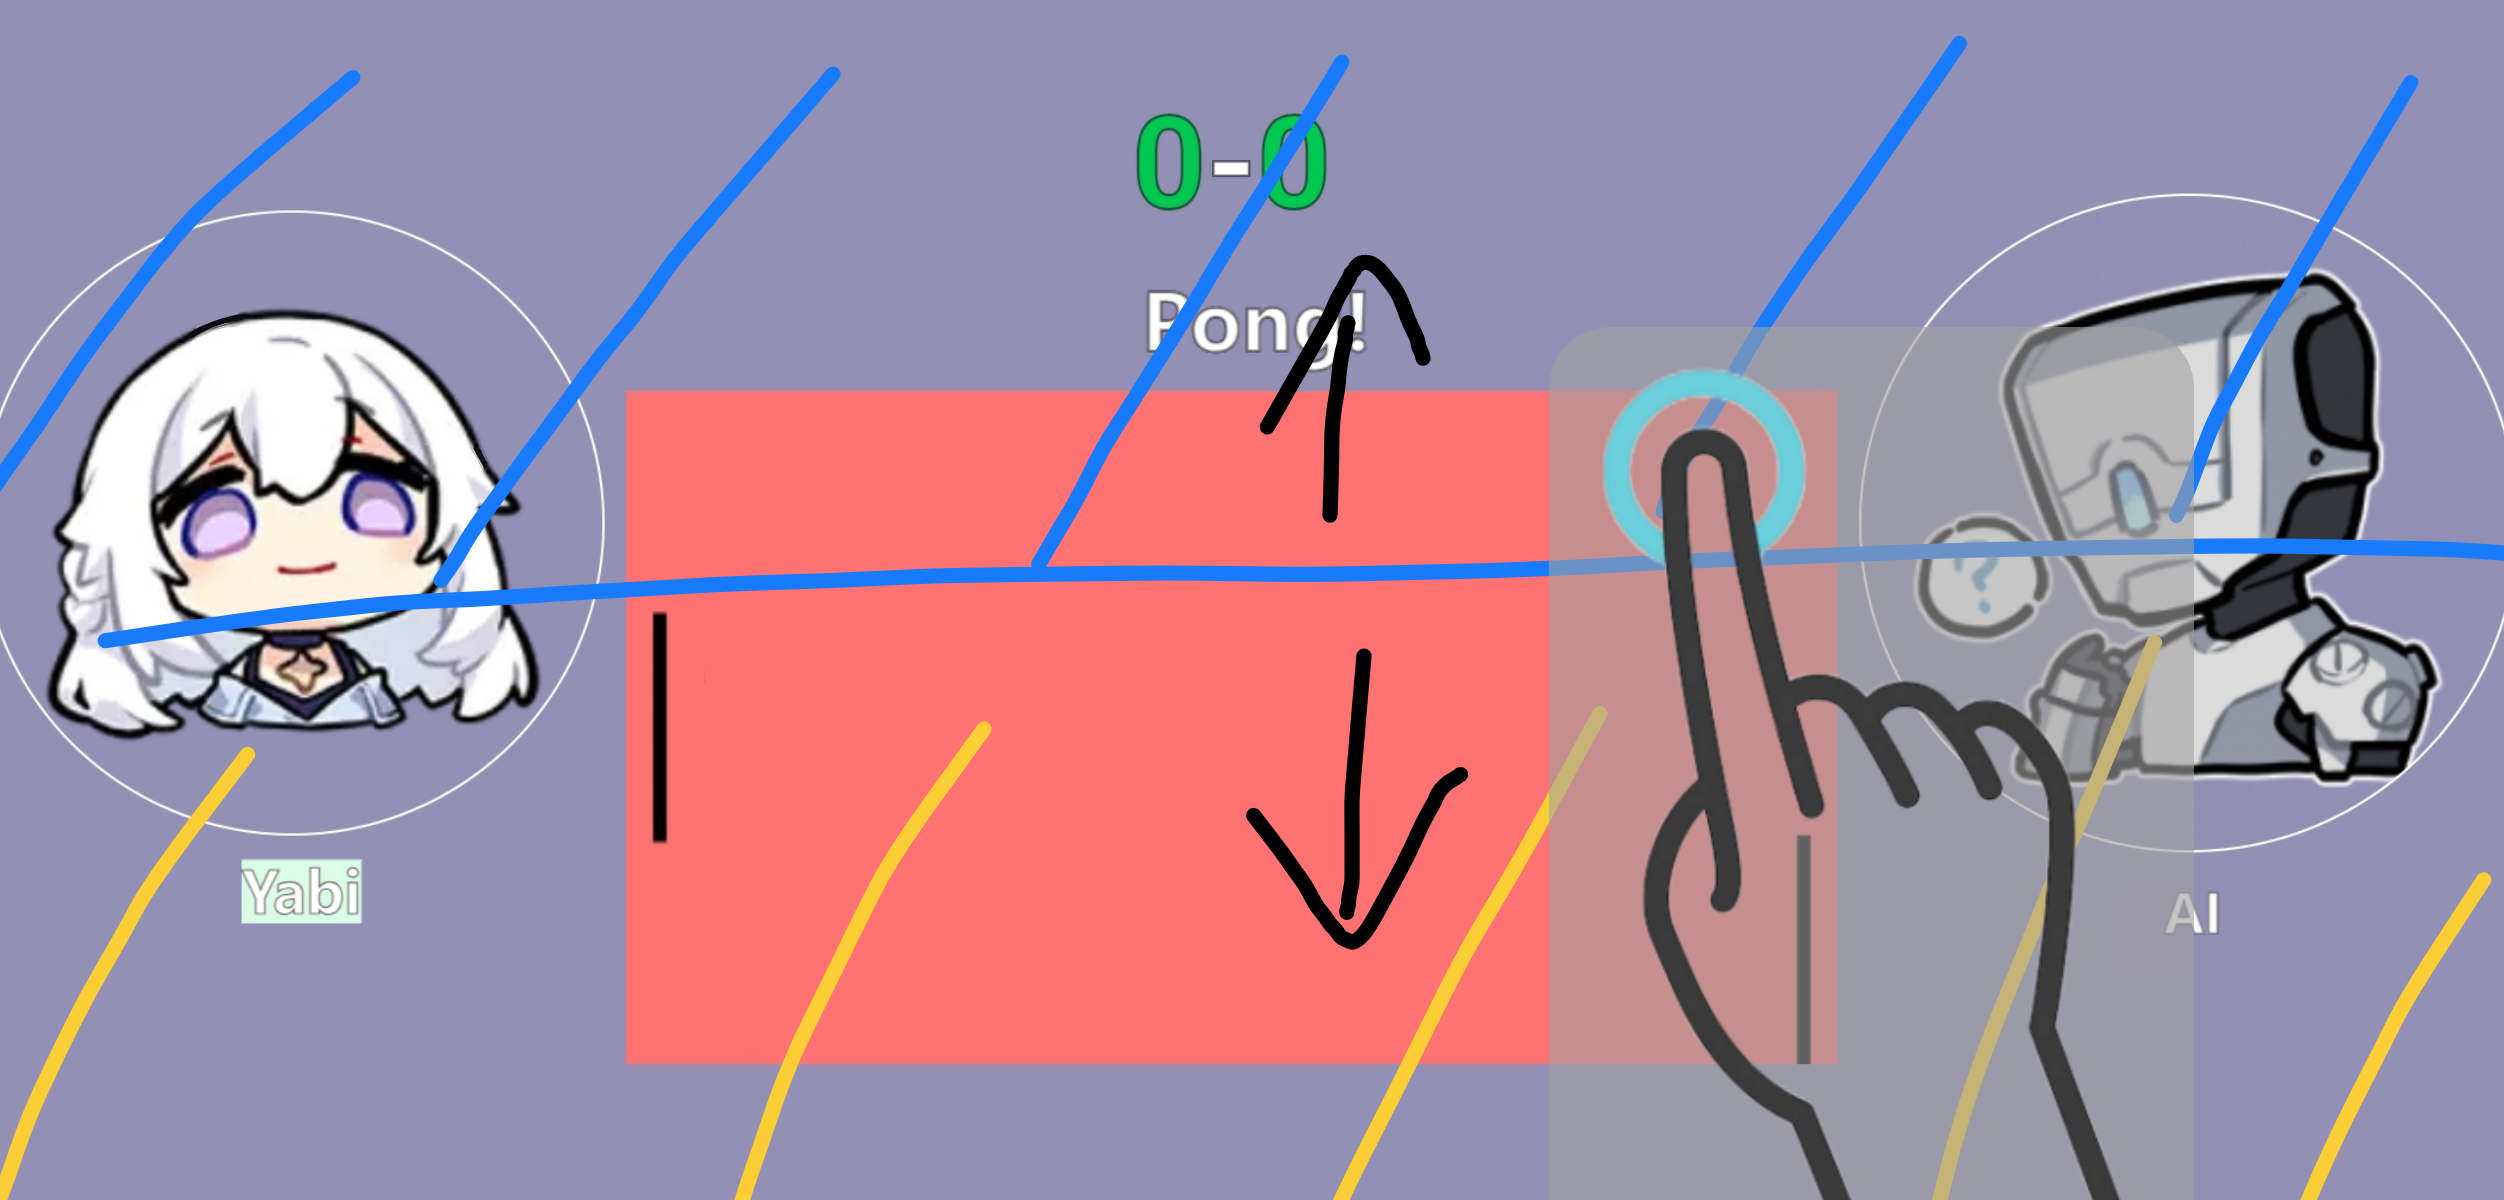
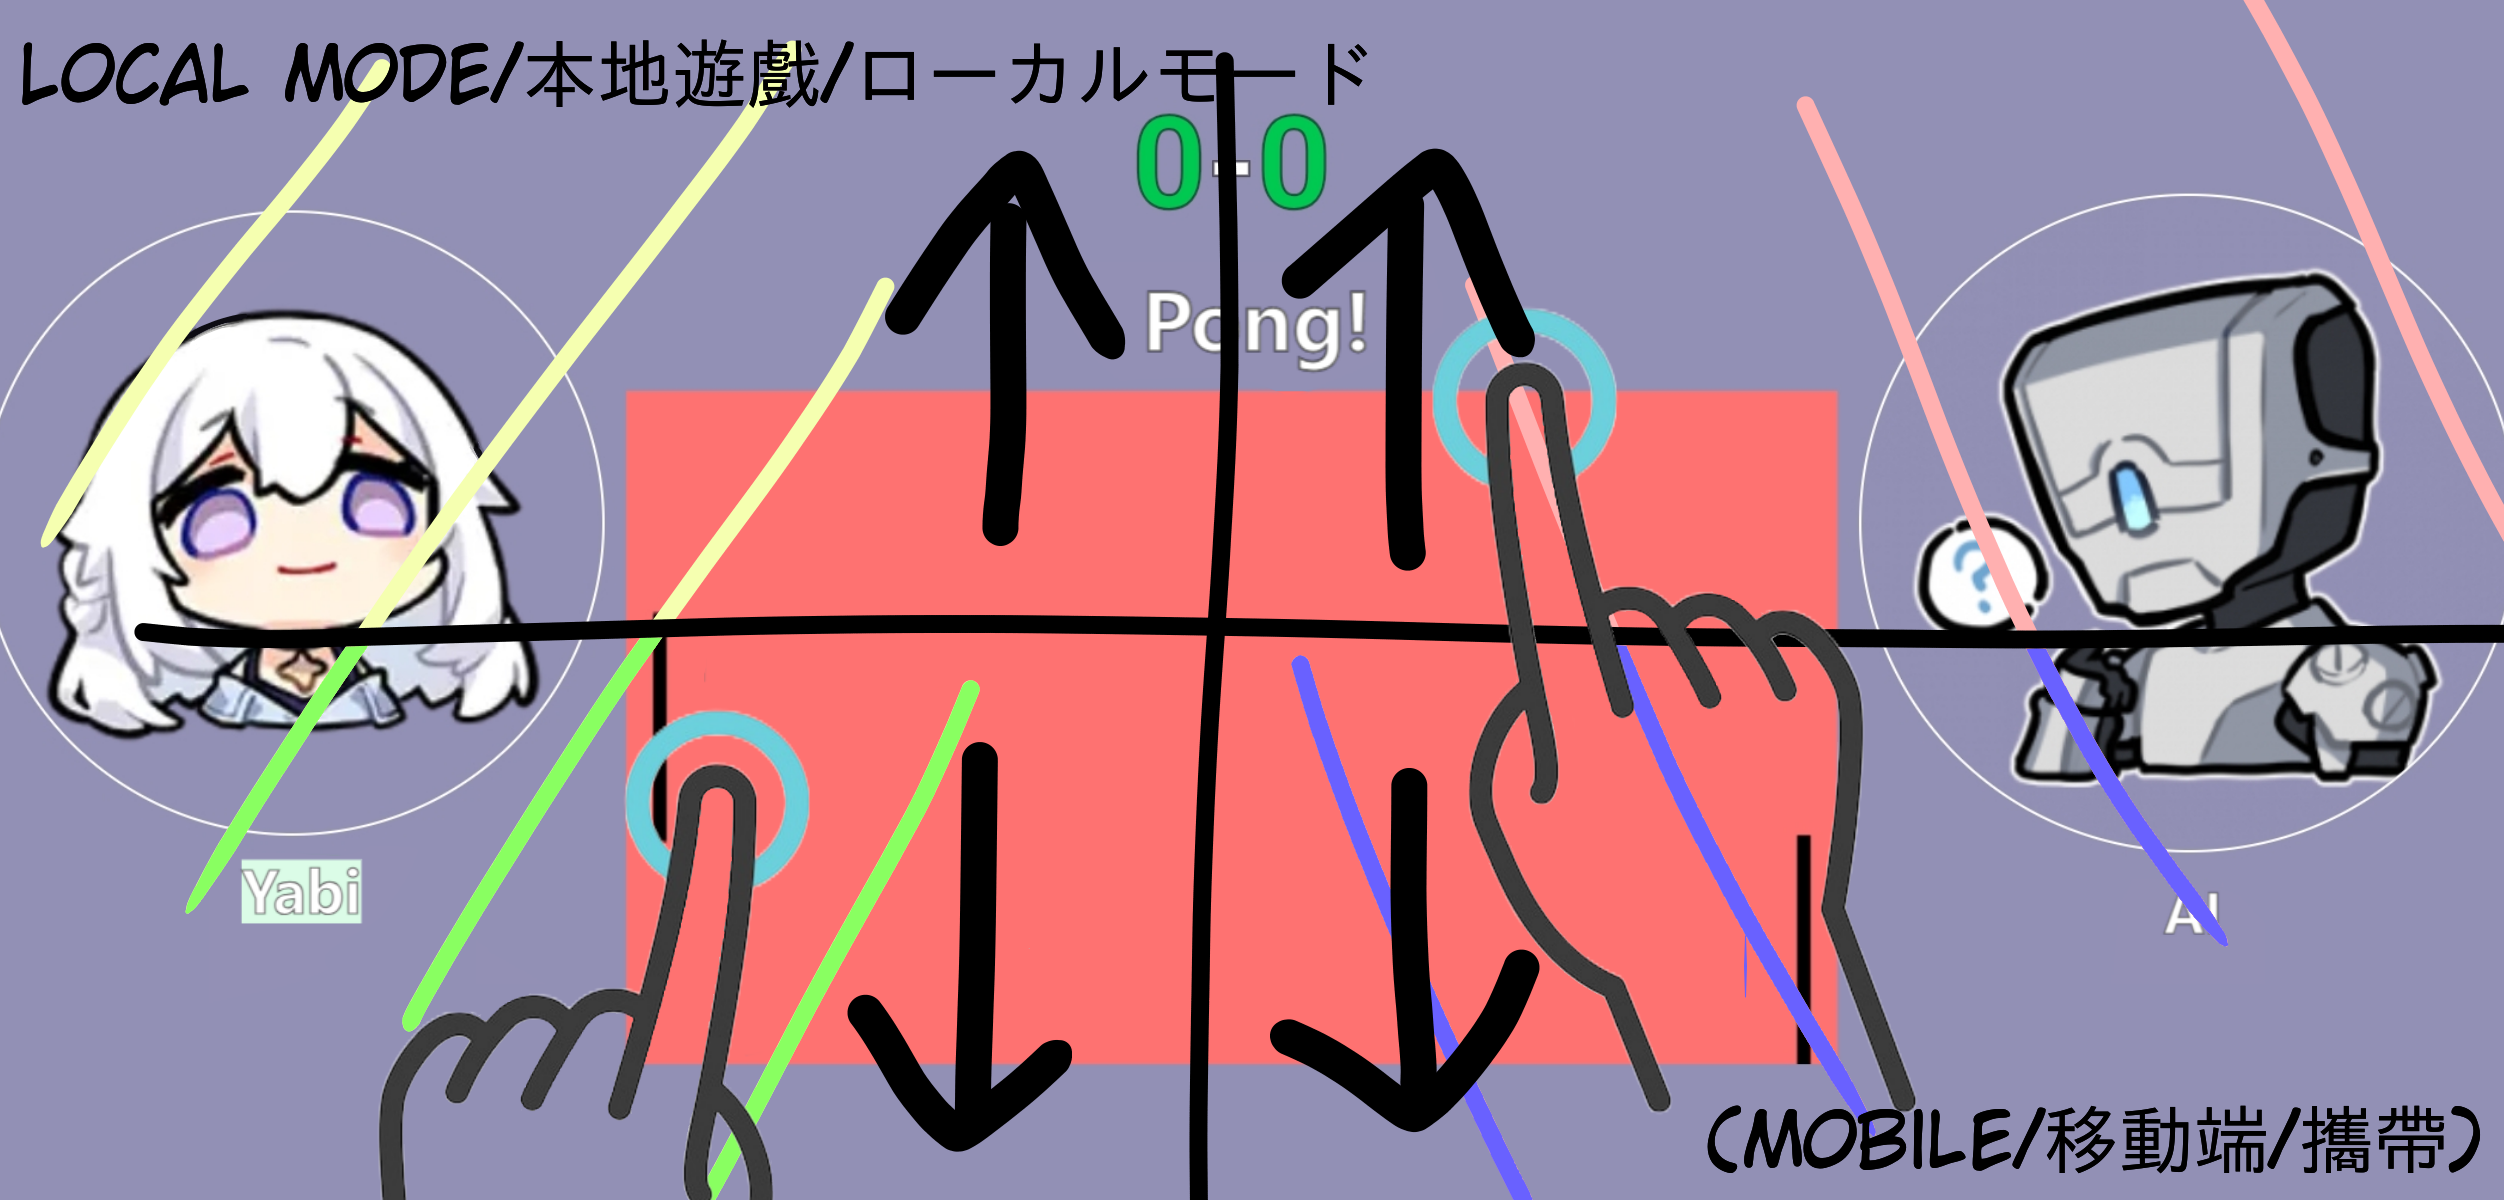
update: more tutorial modal update: home page right part layout tidy up

Changed region(s): [[0.0, 0.0, 1.0, 1.0], [0.0312, 0.5858, 0.1246, 0.8325], [0.0, 0.8325, 0.0312, 1.0]]

diff --git a/app/srcs/frontend/src/homePage/HomeComponents.tsx b/app/srcs/frontend/src/homePage/HomeComponents.tsx
@@ -42,7 +42,7 @@ export function LanguageBar({ bgColor = "bg-gray-800/80", optionColor = "bg-[#1E
 
   return (
     <select value={lang} onChange={(e) => setLang(e.target.value as Lang)}
-      className={`appearance-none border-2 rounded p-1 text-lg ${bgColor} hover`}
+      className={`appearance-none border-2 rounded p-1 text-lg text-center ${bgColor} hover`}
     >
       <option value="en" className={optionColor}>English</option>
       <option value="zh" className={optionColor}>繁體中文</option>
@@ -93,9 +93,25 @@ export function Credit({ onClick }: { onClick: () => void }) {
 
 // Tutorial Modal
 
+const TutorialImg = {
+  "T1": "/pic/tutorial.png",
+  "T2": "/pic/tutorial_2.png",
+  "T3": "/pic/tutorial_3.png",
+  "T4": "/pic/tutorial_4.png",
+}
+
 export function Tutorial({ onClick }: { onClick: () => void }) {
   const { t } = useLang();
-  const [toggle, setToggle] = React.useState<"first" | "second">("first");
+  const steps = ["T1", "T2", "T3", "T4"] as const;
+  const [toggle, setToggle] = React.useState<"T1" | "T2" | "T3" | "T4">("T1");
+  const handleNext = () => {
+    const idx = steps.indexOf(toggle);
+    setToggle(steps[idx + 1] || steps[0]);
+  };
+  const handleBack = () => {
+    const idx = steps.indexOf(toggle);
+    setToggle(steps[(idx - 1 + steps.length) % steps.length]);
+  }
 
   return (
     <div className="fixed h-screen w-screen z-50 flex md:flex-col items-center justify-center gap-3" onClick={onClick}>
@@ -106,12 +122,17 @@ export function Tutorial({ onClick }: { onClick: () => void }) {
           {t("home.tutor")}
         </h1>
         <div className="relative w-full h-[200px] md:h-[400px] mt-2" onClick={(e) => e.stopPropagation()}>
-          <img className="w-full h-full object-cover rounded-2xl" src={`${toggle === "first" ? "/pic/tutorial.png" : "/pic/tutorial_4.png"}`} />
+          <img draggable="false" className="w-full h-full object-cover rounded-2xl" src={TutorialImg[toggle]} />
         </div>
       </div>
-      <div onClick={(e) => e.stopPropagation()}>
-        <button className="absolute md:relative w-11 md:w-15 aspect-square border-2 border-silver rounded-md overflow-hidden hover-increase" onClick={() => setToggle(toggle === "first" ? "second" : "first")}>
-          <img src={`${toggle === "first" ? "/pic/icons/next_btn.png" : "/pic/icons/back_btn.png" }`} className="drop-shadow-lg w-full h-full object-cover"/>  
+      <div onClick={(e) => e.stopPropagation()} className="absolute max-md:right-6 md:relative flex flex-col md:flex-row gap-2">
+        { toggle !== "T1" &&
+          <button className="w-11 md:w-15 aspect-square border-2 border-silver rounded-md overflow-hidden hover-increase" onClick={handleBack}>
+            <img draggable="false" src="/pic/icons/back_btn.png" className="drop-shadow-lg w-full h-full object-cover" />
+          </button>
+        }
+        <button className="w-11 md:w-15 aspect-square border-2 border-silver rounded-md overflow-hidden hover-increase" onClick={handleNext}>
+          <img src="/pic/icons/next_btn.png" className="drop-shadow-lg w-full h-full object-cover" />
         </button>
       </div>
 

diff --git a/app/srcs/frontend/src/homePage/home.tsx b/app/srcs/frontend/src/homePage/home.tsx
@@ -47,6 +47,7 @@ return (
     { loading ? <LoadingScreen progress={progress}/> :
       <>
       <div className="relative h-full w-full grid grid-cols-[1fr_2fr_1fr] grid-rows-1 overflow-hidden text-lg md:text-2xl">
+
         {modal}
 
         <div className="flex flex-col ml-1">
@@ -74,14 +75,16 @@ return (
           </span>
         </div>
 
-        <div className="flex flex-col items-end mr-0.5 md:mr-3 gap-2">
-          {/* Text -> Game Version */}
-          <span className="text-base">{t("home.text_version")} {import.meta.env.VITE_VERSION}</span>
+        {/* Text -> Game Version */}
+        <span className="absolute top-1 right-0.5 md:right-3 text-base text-end">{t("home.text_version")} {import.meta.env.VITE_VERSION}</span>
+
+        <div className="absolute top-8 right-0.5 md:right-3">
           {/* Dropdown -> Language Selector */}
           <LanguageBar />
-          {/* Button -> Match History page */}
-          <button className="absolute bottom-2 rounded-2xl p-2 border-1 border-gray-200/30 bg-gray-300/20 whitespace-nowrap font-bold hover hover:scale-120 hover:mr-1 backdrop-blur-lg" onClick={() => navigate("/match_history")}>{t("home.btn_history")}</button>
         </div>
+        {/* Button -> Match History page */}
+        <button className="absolute bottom-2 right-0.5 md:right-3 rounded-2xl p-2 border-1 border-gray-200/30 bg-gray-300/20 whitespace-nowrap font-bold hover hover:scale-120 hover:mr-1 backdrop-blur-lg" onClick={() => navigate("/match_history")}>{t("home.btn_history")}</button>
+
       </div>
       </>
     }
